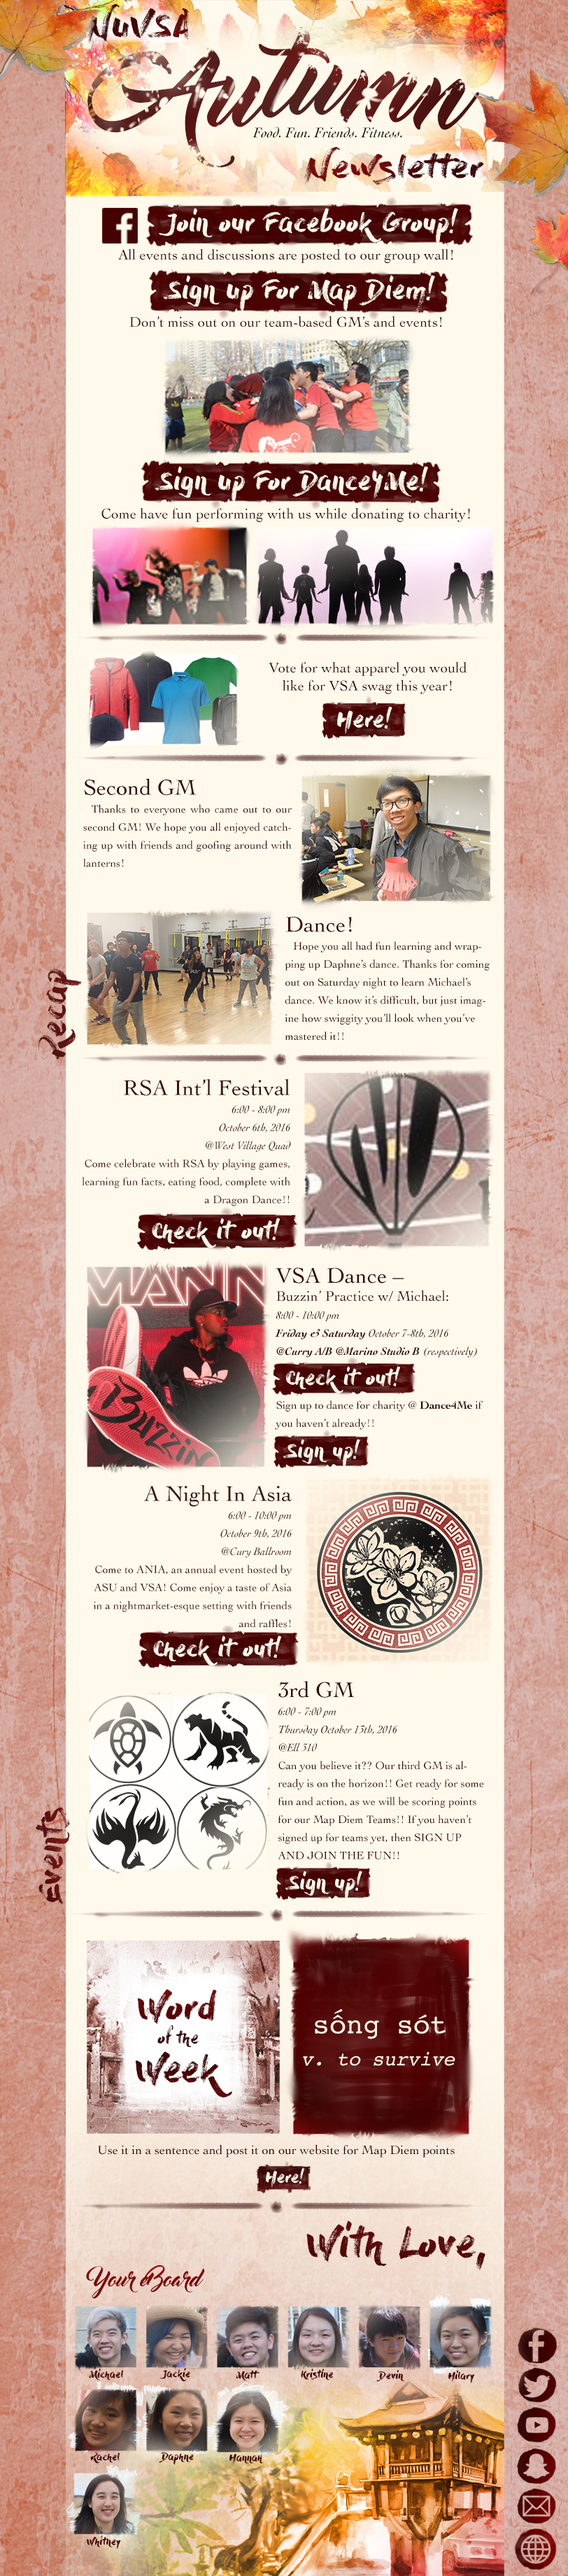
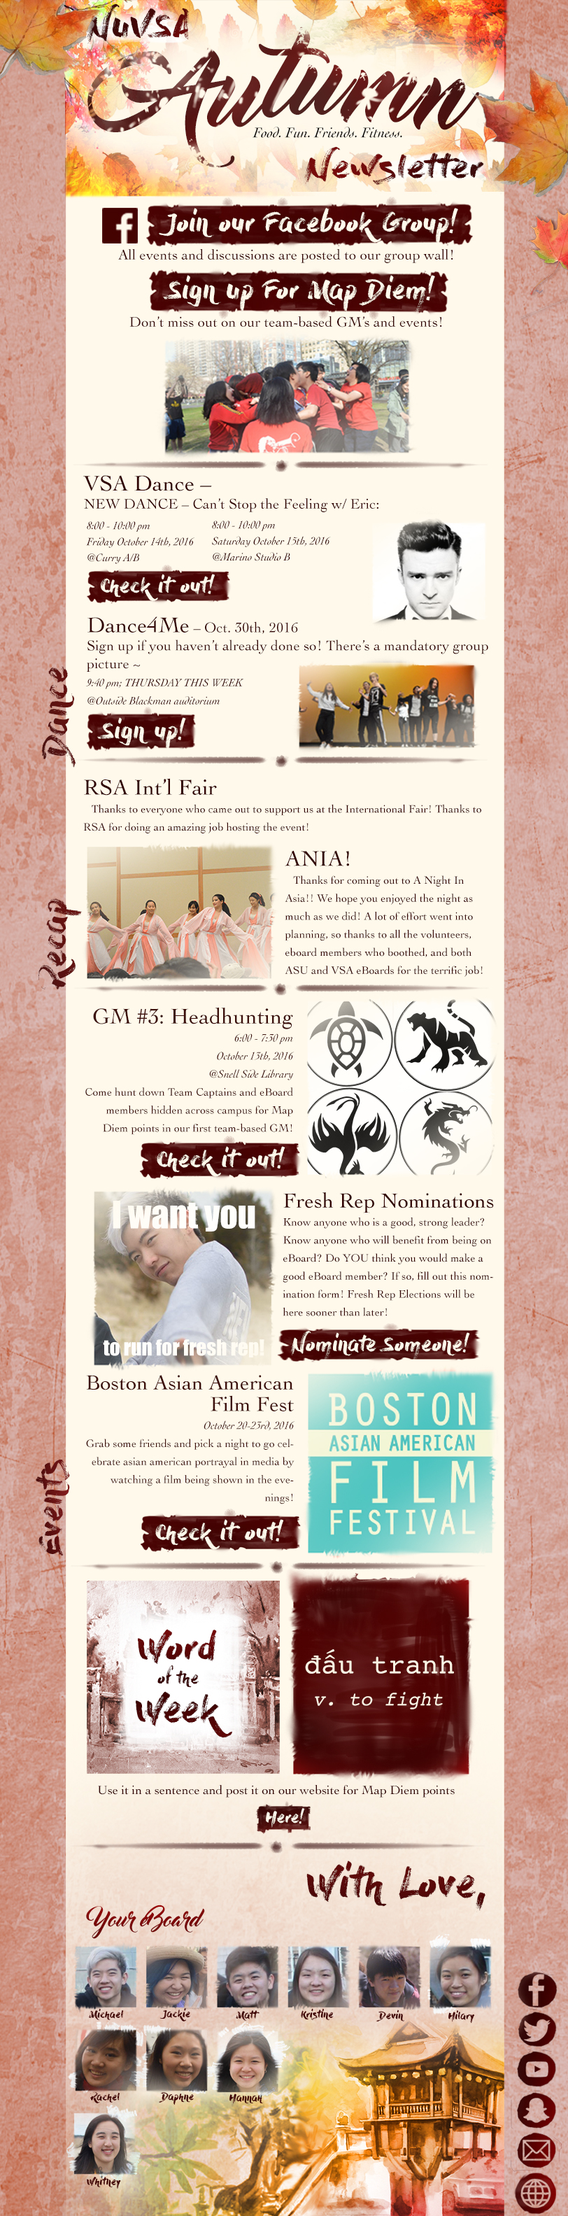
Updated current newsletter - 10/10/16

diff --git a/index.html b/index.html
@@ -72,24 +72,22 @@
     <!-- Matt was here LOL -->
     <!-- ...mmmm check out dat source -->
     <div id="newsletter-container">
-        <img id="newsletter" src="images/newsletterImage.jpg" border="0" width="812" height="3681" orgWidth="812" orgHeight="3681" usemap="#map" alt="" />
+        <img id="newsletter" src="images/newsletterImage.jpg" border="0" width="812" height="3167" orgWidth="812" orgHeight="3167" usemap="#map" alt="" />
     </div>
     <map name="map" id="newsletterMap">
-        <area  alt="" title="" href="https://www.facebook.com/groups/NUVSA/" shape="rect" coords="211,294,674,345" style="outline:none;" target="_self"     />
-        <area  alt="" title="" href="https://docs.google.com/forms/d/e/1FAIpQLSctYYdRt11tKYl3xrHeNaNsa6vPmKDDNUuwb-R7yVndSkF1Vg/viewform" shape="rect" coords="215,389,639,445" style="outline:none;" target="_self"     />
-        <area  alt="" title="" href="https://docs.google.com/spreadsheets/d/1XclU_SbNArTEYf85Czxc6DZrDf4yp6Tzjwg3xCp8bIo/edit#gid=0" shape="rect" coords="202,661,626,717" style="outline:none;" target="_self"     />
-        <area  alt="" title="" href="https://docs.google.com/forms/d/e/1FAIpQLSf4ulEgmHm7z7PHu6daNiOwK24pmyUl2xt0pKWV7iXCkhXdOA/viewform?c=0&w=1" shape="rect" coords="461,1006,578,1051" style="outline:none;" target="_self"     />
-        <area  alt="" title="" href="https://www.facebook.com/events/687286451419940/" shape="rect" coords="199,1735,421,1781" style="outline:none;" target="_self"     />
-        <area  alt="" title="" href="https://www.facebook.com/events/1794611990828216/" shape="rect" coords="392,1951,589,1988" style="outline:none;" target="_self"     />
-        <area  alt="" title="" href="https://docs.google.com/spreadsheets/d/1XclU_SbNArTEYf85Czxc6DZrDf4yp6Tzjwg3xCp8bIo/edit#gid=0" shape="rect" coords="394,2053,525,2095" style="outline:none;" target="_self"     />
-        <area  alt="" title="" href="https://www.facebook.com/events/1125618350848013/" shape="rect" coords="202,2332,425,2380" style="outline:none;" target="_self"     />
-        <area  alt="" title="" href="https://docs.google.com/forms/d/e/1FAIpQLSctYYdRt11tKYl3xrHeNaNsa6vPmKDDNUuwb-R7yVndSkF1Vg/viewform" shape="rect" coords="394,2671,528,2711" style="outline:none;" target="_self"     />
-        <area  alt="" title="" href="http://www.vsa.neu.edu/#cboxdiv" shape="rect" coords="369,3094,443,3130" style="outline:none;" target="_self"     />
-        <area  alt="" title="" href="https://www.facebook.com/groups/NUVSA/" shape="rect" coords="741,3325,794,3377" style="outline:none;" target="_self"     />
-        <area  alt="" title="" href="https://twitter.com/nuvsa" shape="rect" coords="741,3384,794,3436" style="outline:none;" target="_self"     />
-        <area  alt="" title="" href="https://www.youtube.com/user/NUVSA" shape="rect" coords="741,3438,794,3490" style="outline:none;" target="_self"     />
-        <area  alt="" title="" href="https://raw.githubusercontent.com/nuvsa/nuvsa.github.io/master/images/vsaSnapchat.jpg" shape="rect" coords="740,3498,793,3550" style="outline:none;" target="_self"     />
-        <area  alt="" title="" href="http://www.vsa.neu.edu/about/" shape="rect" coords="739,3616,792,3668" style="outline:none;" target="_self"     />
+        <area alt="" title="" href="https://www.facebook.com/groups/NUVSA/" shape="rect" coords="143,296,672,346" style="outline:none;" target="_self"/>
+        <area alt="" title="" href="https://docs.google.com/forms/d/e/1FAIpQLSctYYdRt11tKYl3xrHeNaNsa6vPmKDDNUuwb-R7yVndSkF1Vg/viewform" shape="rect" coords="213,390,643,446" style="outline:none;" target="_self"/>
+        <area alt="" title="" href="https://www.facebook.com/events/336147196736117/" shape="rect" coords="126,817,326,857" style="outline:none;" target="_self"/>
+        <area alt="" title="" href="https://docs.google.com/spreadsheets/d/1XclU_SbNArTEYf85Czxc6DZrDf4yp6Tzjwg3xCp8bIo/" shape="rect" coords="127,1024,276,1064" style="outline:none;" target="_self"/>
+        <area alt="" title="" href="https://www.facebook.com/events/662377187273025/" shape="rect" coords="202,1637,421,1677" style="outline:none;" target="_self"/>
+        <area alt="" title="" href="https://goo.gl/forms/1khj8udYuw0hloxs1" shape="rect" coords="401,1899,681,1944" style="outline:none;" target="_self"/>
+        <area alt="" title="" href="http://www.baaff.org/media.html?platform=hootsuite" shape="rect" coords="206,2170,428,2215" style="outline:none;" target="_self"/>
+        <area alt="" title="" href="http://www.vsa.neu.edu/#cboxdiv" shape="rect" coords="372,2579,443,2617" style="outline:none;" target="_self"/>
+        <area alt="" title="" href="https://www.facebook.com/groups/NUVSA/" shape="rect" coords="739,2818,799,2870" style="outline:none;" target="_self"/>
+        <area alt="" title="" href="https://twitter.com/nuvsa" shape="rect" coords="739,2875,799,2927" style="outline:none;" target="_self"/>
+        <area alt="" title="" href="youtube.com/nuvsa" shape="rect" coords="737,2930,797,2982" style="outline:none;" target="_self"/>
+        <area alt="" title="" href="https://raw.githubusercontent.com/nuvsa/nuvsa.github.io/master/images/vsaSnapchat.jpg" shape="rect" coords="737,2991,797,3043" style="outline:none;" target="_self"/>
+        <area alt="" title="" href="http://www.vsa.neu.edu/about/" shape="rect" coords="737,3106,797,3158" style="outline:none;" target="_self"/>
     </map>
 </body>
 <script>
